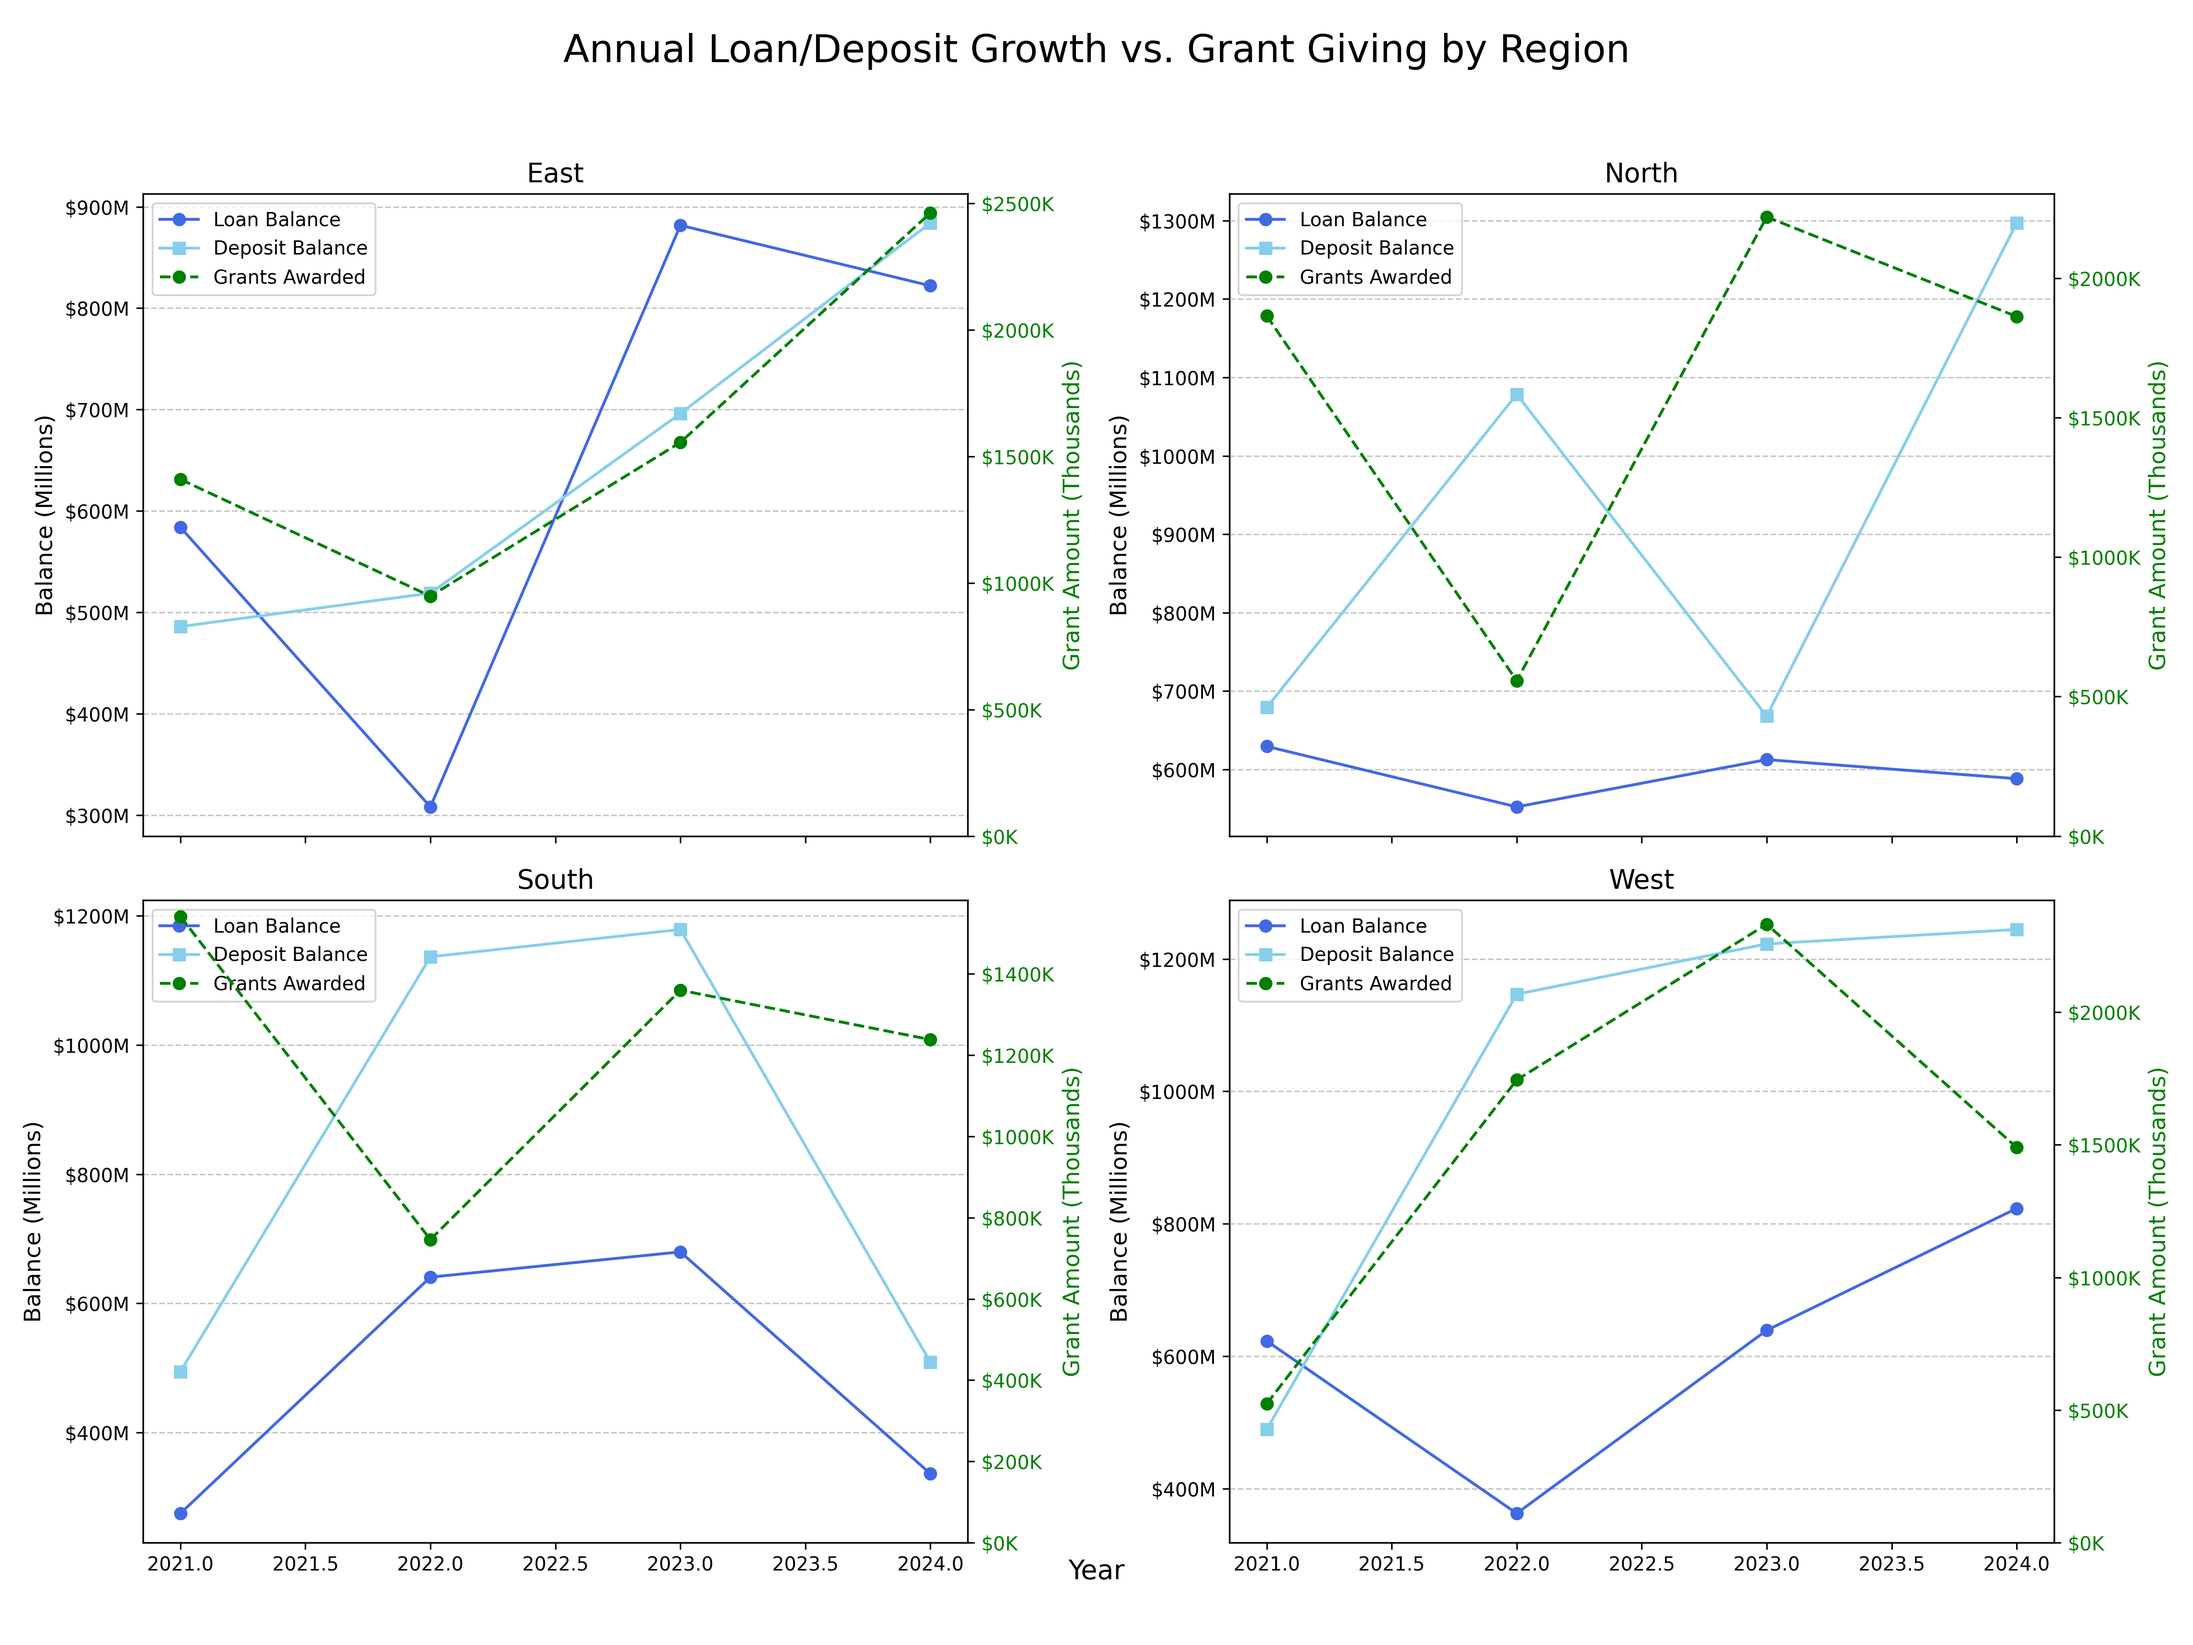
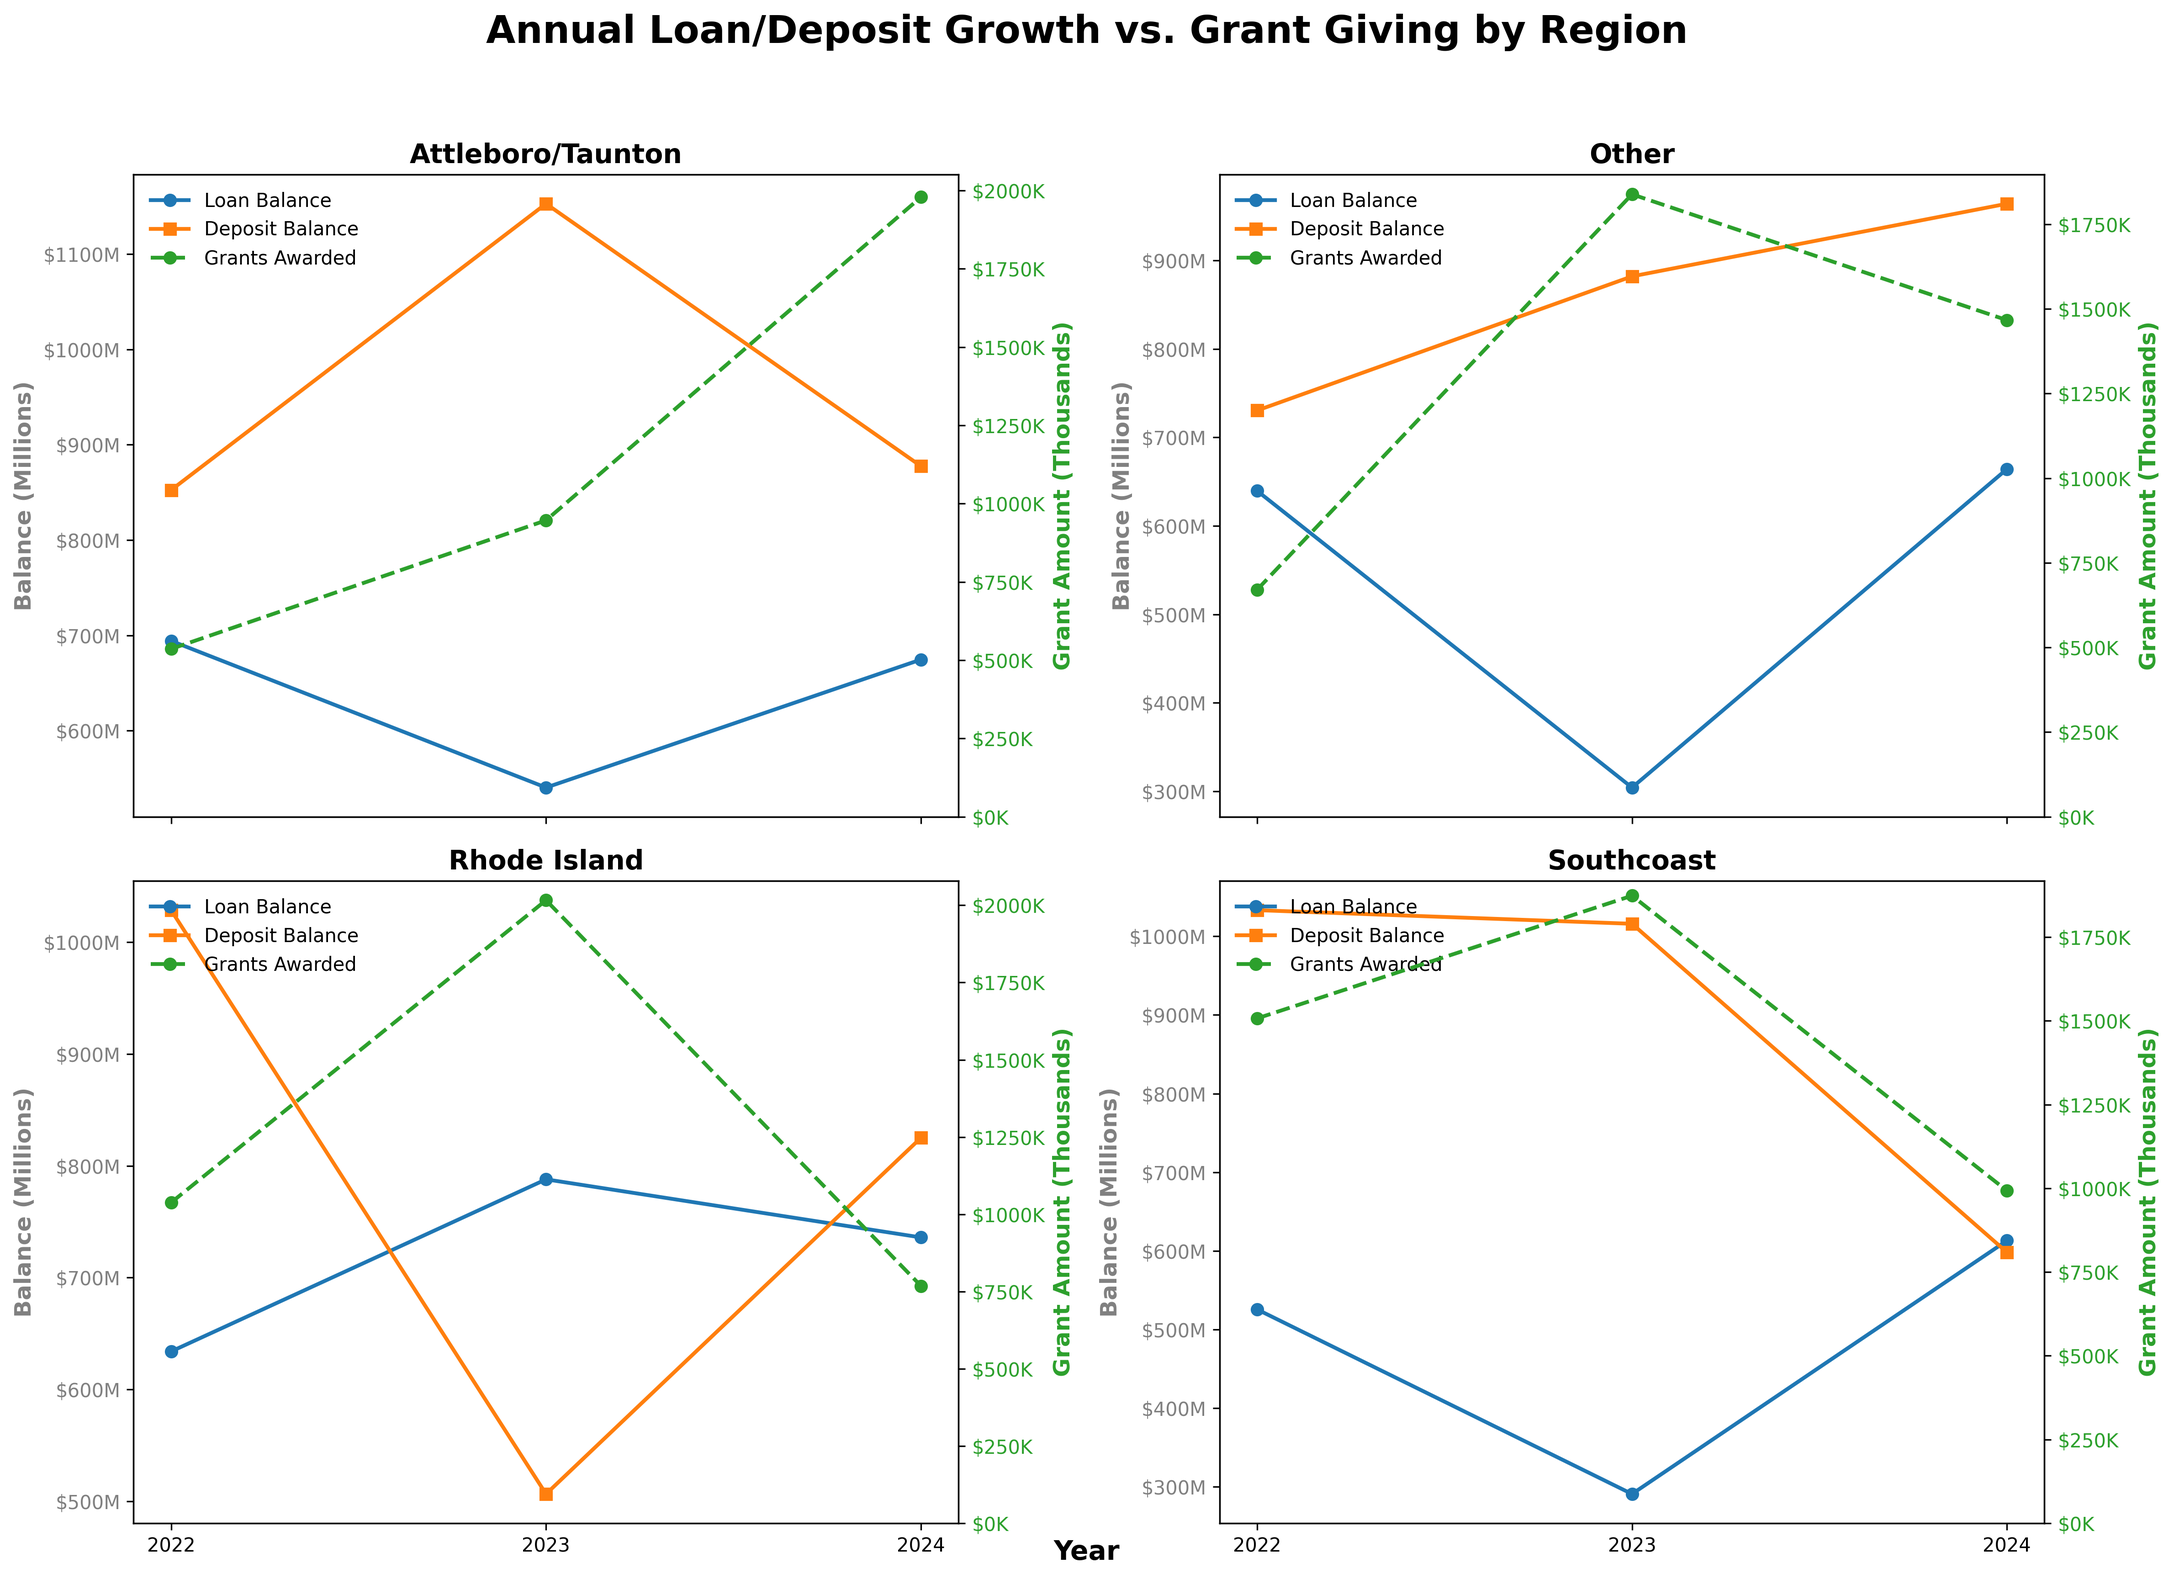
.

diff --git a/Reports/Community Relations/Grant_vs_Growth/src/test2.5.py b/Reports/Community Relations/Grant_vs_Growth/src/test2.5.py
@@ -1,0 +1,107 @@
+import pandas as pd
+import numpy as np
+import matplotlib.pyplot as plt
+import matplotlib.ticker as mticker
+
+# --- Assume df_pivot from the previous step already exists ---
+# If not, you can recreate it with the previous code.
+# Here's a quick recreation for context:
+# (You would not need to run this again if it's in the same script)
+years = [2021, 2022, 2023, 2024]
+regions = ['Rhode Island', 'Southcoast', 'Attleboro/Taunton', 'Other']
+data = []
+for year in years:
+    for region in regions:
+        data.append({
+            'year': year,
+            'region': region,
+            'loan_balance': np.random.uniform(250e6, 800e6) * (1 + (year-2021)*0.06),
+            'deposit_balance': np.random.uniform(400e6, 1200e6) * (1 + (year-2021)*0.08),
+            'grant_amount': np.random.uniform(0.5e6, 2e6) * (1 + (year-2021)*0.1)
+        })
+df_consolidated = pd.DataFrame(data)
+df_pivot = df_consolidated.pivot_table(index='year', columns='region', values=['loan_balance', 'deposit_balance', 'grant_amount'])
+df_pivot = df_pivot.swaplevel(0, 1, axis=1).sort_index(axis=1)
+# --- End of recreation ---
+
+# Determine regions to plot (exclude 'Other' as the equivalent of 'Unmapped')
+regions_to_plot = [col for col in df_pivot.columns.get_level_values(0).unique() if col not in ['Other']]
+# Assuming regions_to_plot = ['Rhode Island', 'Southcoast', 'Attleboro/Taunton']
+num_regions = len(regions_to_plot)
+nrows = int(np.ceil(np.sqrt(num_regions)))
+ncols = int(np.ceil(num_regions / nrows))
+
+# Initialize subplots with a clean, professional style
+plt.style.use('seaborn-v0_8')  # Use a clean style akin to business reporting tools
+fig, axes = plt.subplots(nrows=nrows, ncols=ncols, figsize=(16, 12), sharex=True)
+axes = axes.flatten()  # Flatten for easy iteration
+
+# Get the years from df_pivot index
+years = df_pivot.index
+
+# Define formatters for currency axes (professional currency formatting)
+def millions_formatter(x, pos):
+    return f'${x / 1e6:.0f}M'
+
+def thousands_formatter(x, pos):
+    return f'${x / 1e3:.0f}K'
+
+# Professional color palette (inspired by business intelligence tools like Tableau/PowerBI)
+color_palette = {
+    'loan_balance': '#1f77b4',  # Conservative blue
+    'deposit_balance': '#aec7e8',  # Lighter blue
+    'grant_amount': '#2ca02c'  # Professional green
+}
+
+# Loop through each region and its subplot
+for i, region in enumerate(regions_to_plot):
+    ax = axes[i]
+    
+    # Extract data for the region
+    loan_values = df_pivot.loc[:, (region, 'loan_balance')]
+    deposit_values = df_pivot.loc[:, (region, 'deposit_balance')]
+    grant_values = df_pivot.loc[:, (region, 'grant_amount')]
+    
+    # Plot loan and deposit balances on primary axis
+    ax.plot(years, loan_values, label='Loan Balance', color=color_palette['loan_balance'], marker='o', linewidth=2)
+    ax.plot(years, deposit_values, label='Deposit Balance', color=color_palette['deposit_balance'], marker='s', linewidth=2)
+    
+    # Format primary y-axis
+    ax.set_ylabel('Balance (Millions)', fontsize=12, fontweight='bold')
+    ax.yaxis.set_major_formatter(mticker.FuncFormatter(millions_formatter))
+    ax.grid(axis='y', linestyle=':', alpha=0.5, color='gray')  # Subtle grid
+    ax.set_facecolor('white')  # Ensure clean background
+    
+    # Create secondary y-axis for grants
+    ax2 = ax.twinx()
+    ax2.plot(years, grant_values, label='Grants Awarded', color=color_palette['grant_amount'], linestyle='--', marker='o', markersize=6, linewidth=2)
+    
+    # Format secondary y-axis
+    ax2.set_ylabel('Grant Amount (Thousands)', color=color_palette['grant_amount'], fontsize=12, fontweight='bold')
+    ax2.tick_params(axis='y', labelcolor=color_palette['grant_amount'])
+    ax2.set_ylim(bottom=0)
+    ax2.yaxis.set_major_formatter(mticker.FuncFormatter(thousands_formatter))
+    
+    # Set subplot title
+    ax.set_title(region, fontsize=14, fontweight='bold')
+    
+    # Add legends for both axes
+    lines, labels_line = ax.get_legend_handles_labels()
+    lines2, labels2_line = ax2.get_legend_handles_labels()
+    ax.legend(lines + lines2, labels_line + labels2_line, loc='upper left', fontsize=10, frameon=False)
+
+# Turn off unused subplots if necessary
+for i in range(num_regions, nrows * ncols):
+    fig.delaxes(axes[i])
+
+# Set x-axis label for the entire figure (since shared)
+fig.text(0.5, 0.04, 'Year', ha='center', fontsize=14, fontweight='bold')
+
+# Add overarching title
+fig.suptitle('Regional Financial Performance: Loan/Deposit Balances vs. Grants Awarded', fontsize=18, fontweight='bold')
+
+# Adjust layout to prevent overlaps and enhance professional appearance
+plt.tight_layout(rect=[0, 0.03, 1, 0.95])
+
+# Save the figure as a high-quality PNG
+plt.savefig('regional_financial_trends.png', dpi=300, bbox_inches='tight')

diff --git a/Reports/Community Relations/Grant_vs_Growth/src/test2.6.py b/Reports/Community Relations/Grant_vs_Growth/src/test2.6.py
@@ -1,0 +1,105 @@
+import pandas as pd
+import numpy as np
+import matplotlib.pyplot as plt
+import matplotlib.ticker as mticker
+
+# --- Adjusted data creation for 2022-2024 and new regions ---
+years = [2022, 2023, 2024]
+regions = ['Rhode Island', 'Southcoast', 'Attleboro/Taunton', 'Other', 'Unmapped']
+data = []
+for year in years:
+    for region in regions:
+        data.append({
+            'year': year,
+            'region': region,
+            'loan_balance': np.random.uniform(250e6, 800e6) * (1 + (year-2022)*0.06),
+            'deposit_balance': np.random.uniform(400e6, 1200e6) * (1 + (year-2022)*0.08),
+            'grant_amount': np.random.uniform(0.5e6, 2e6) * (1 + (year-2022)*0.1)
+        })
+df_consolidated = pd.DataFrame(data)
+df_pivot = df_consolidated.pivot_table(index='year', columns='region', values=['loan_balance', 'deposit_balance', 'grant_amount'])
+df_pivot = df_pivot.swaplevel(0, 1, axis=1).sort_index(axis=1)
+# --- End of recreation ---
+
+# Determine regions to plot (exclude 'Unmapped')
+regions_to_plot = [col for col in df_pivot.columns.get_level_values(0).unique() if col not in ['Unmapped']]
+# Assuming regions_to_plot = ['Rhode Island', 'Southcoast', 'Attleboro/Taunton', 'Other'] (4 regions)
+num_regions = len(regions_to_plot)
+nrows = int(np.ceil(np.sqrt(num_regions)))
+ncols = int(np.ceil(num_regions / nrows))
+
+# Initialize subplots
+fig, axes = plt.subplots(nrows=nrows, ncols=ncols, figsize=(16, 12), sharex=True)
+axes = axes.flatten()  # Flatten for easy iteration
+
+# Get the years from df_pivot index
+years = df_pivot.index
+
+# Define formatters for currency axes
+def millions_formatter(x, pos):
+    return f'${x / 1e6:.0f}M'
+
+def thousands_formatter(x, pos):
+    return f'${x / 1e3:.0f}K'
+
+# Professional color scheme (inspired by PowerBI/Tableau dashboards)
+colors = {
+    'loan_balance': '#1f77b4',  # Professional blue
+    'deposit_balance': '#ff7f0e',  # Orange
+    'grant_amount': '#2ca02c'  # Green
+}
+
+# Loop through each region and its subplot
+for i, region in enumerate(regions_to_plot):
+    ax = axes[i]
+    
+    # Extract data for the region
+    loan_values = df_pivot.loc[:, (region, 'loan_balance')]
+    deposit_values = df_pivot.loc[:, (region, 'deposit_balance')]
+    grant_values = df_pivot.loc[:, (region, 'grant_amount')]
+    
+    # Plot loan and deposit balances on primary axis
+    ax.plot(years, loan_values, label='Loan Balance', color=colors['loan_balance'], marker='o', linewidth=2)
+    ax.plot(years, deposit_values, label='Deposit Balance', color=colors['deposit_balance'], marker='s', linewidth=2)
+    
+    # Format primary y-axis
+    ax.set_ylabel('Balance (Millions)', fontsize=12, fontweight='bold', color='gray')
+    ax.yaxis.set_major_formatter(mticker.FuncFormatter(millions_formatter))
+    ax.tick_params(axis='y', labelcolor='gray')
+    
+    # Create secondary y-axis for grants
+    ax2 = ax.twinx()
+    ax2.plot(years, grant_values, label='Grants Awarded', color=colors['grant_amount'], linestyle='--', marker='o', markersize=6, linewidth=2)
+    
+    # Format secondary y-axis
+    ax2.set_ylabel('Grant Amount (Thousands)', color=colors['grant_amount'], fontsize=12, fontweight='bold')
+    ax2.tick_params(axis='y', labelcolor=colors['grant_amount'])
+    ax2.set_ylim(bottom=0)
+    ax2.yaxis.set_major_formatter(mticker.FuncFormatter(thousands_formatter))
+    
+    # Set subplot title
+    ax.set_title(region, fontsize=14, fontweight='bold')
+    
+    # Set x-axis ticks to whole years
+    ax.set_xticks(years)
+    
+    # Add legends for both axes (positioned better for professional look)
+    lines, labels_line = ax.get_legend_handles_labels()
+    lines2, labels2_line = ax2.get_legend_handles_labels()
+    ax.legend(lines + lines2, labels_line + labels2_line, loc='upper left', frameon=False)
+
+# Turn off unused subplots if necessary
+for i in range(num_regions, nrows * ncols):
+    fig.delaxes(axes[i])
+
+# Set x-axis label for the entire figure (since shared)
+fig.text(0.5, 0.04, 'Year', ha='center', fontsize=14, fontweight='bold')
+
+# Add overarching title
+fig.suptitle('Annual Loan/Deposit Growth vs. Grant Giving by Region', fontsize=20, fontweight='bold')
+
+# Adjust layout to prevent overlaps, tighten for professional spacing
+plt.tight_layout(rect=[0, 0.03, 1, 0.95])
+
+# Save the figure as a high-quality PNG
+plt.savefig('regional_financial_trends.png', dpi=300, bbox_inches='tight')
